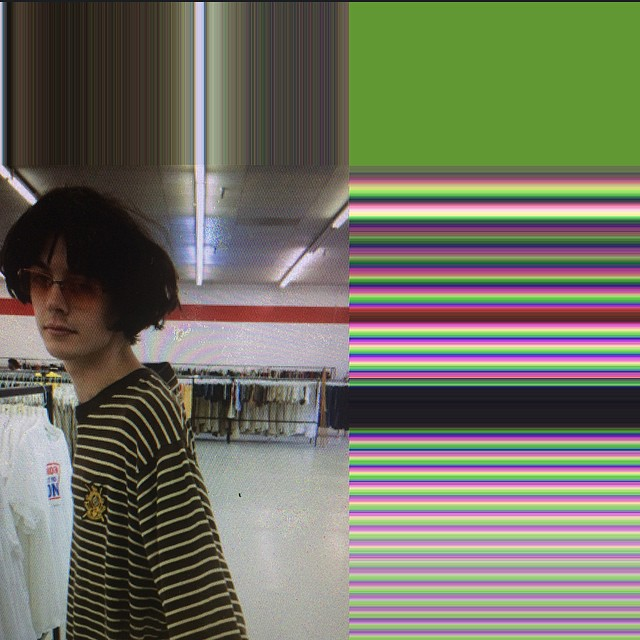
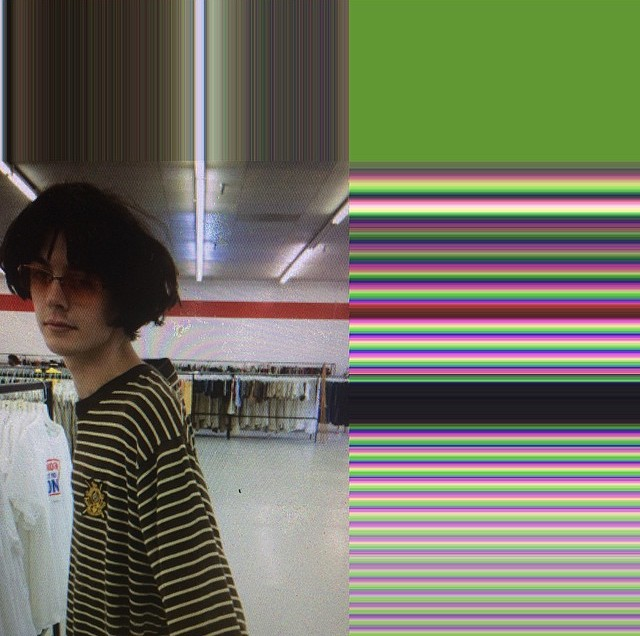
mobile style fix

diff --git a/src/pages/portrait/portrait.css b/src/pages/portrait/portrait.css
@@ -20,7 +20,7 @@
     border-left-color: #ad7e36;
     border-radius: 2px;
     border-right-color: #ad7e36;
-    border-top-color: #8a652d;
+    border-top-color: #9e7332;
 
 
 
@@ -74,12 +74,12 @@
 	display: flex;
 	justify-content: center;
 	align-items: center;
-    background-repeat: repeat;
-    background-size: 50%;
+  background-repeat: repeat;
+  background-size: 50%;
 }
 
 .portraitIMG{
-    max-width: 450px;
-    width: calc(100vw - 85px);
-    height: auto;
+  max-width: 450px;
+  width: calc(100vw - 112px);
+  height: auto;
 }

diff --git a/src/pages/portrait/portrait.js b/src/pages/portrait/portrait.js
@@ -28,7 +28,7 @@ export default class Splash extends React.Component {
         if (!this.props.data) { return null; }
         return (
             <div className="frame">
-                <img src={this.state.bank[this.state.active].node.publicURL} alt="me" className="portraitIMG" onClick={()=>this.nextImage()}/>
+                <img src={"/nateworld/" + this.state.bank[this.state.active].node.publicURL} alt="me" className="portraitIMG" onClick={()=>this.nextImage()}/>
             </div>
         )
     }

diff --git a/src/pages/txt.js b/src/pages/txt.js
@@ -6,7 +6,7 @@ import TxtIndex from './txt/txtIndex';
 function txtPage({ data }) {
     return (
         <div style={{ background: "teal", height: "100%"}}>
-            <NavBar />
+            <NavBar style={{ background: "#c0c0c0"}}/>
             <TxtIndex data={data}/>
         </div>
     )

diff --git a/src/pages/photos/slideshow.css b/src/pages/photos/slideshow.css
@@ -1,5 +1,6 @@
 .activePhoto{
     width: 500px;
+    max-width: 100%;
     height: auto;
     object-fit: contain;
 }
